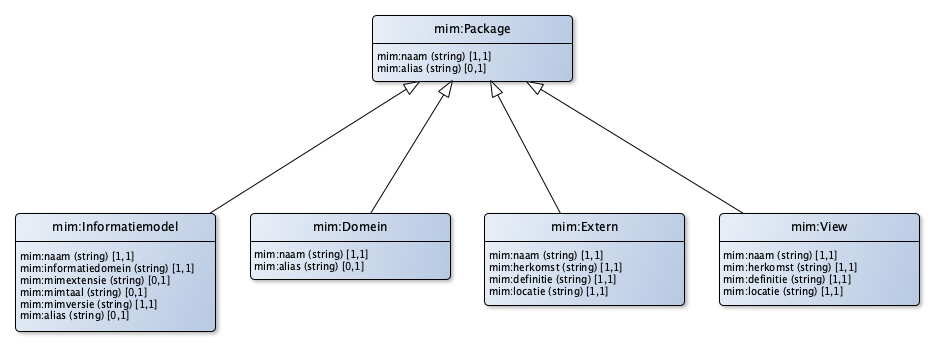
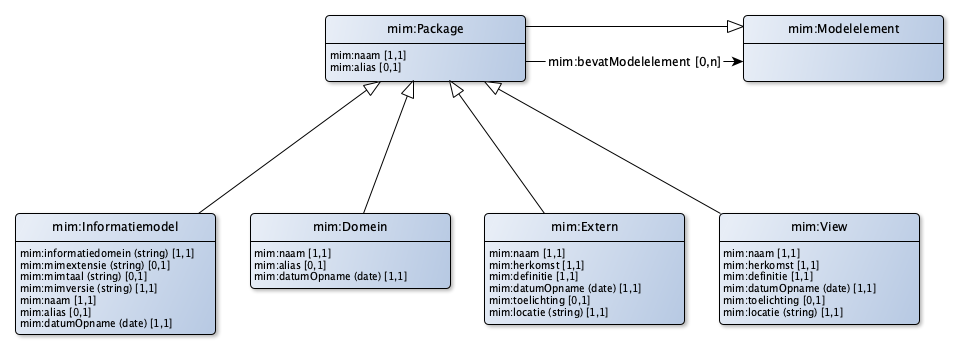
Toevoeging mogelijkheid om te specificeren wat er in een package mag zitten inclusief transformatie tbv issue #165

diff --git a/TransformatieRDF.md b/TransformatieRDF.md
@@ -85,6 +85,7 @@ Onderstaande tabellen geven een overzicht van alle transformaties en een referen
 
 |MIM-klasse|Vertaling|Referentie|
 |----------|---------|----------|
+|`mim:Modelelement`|n.v.t.|Abstracte klasse|
 |`mim:Objecttype`|`owl:Class`, `sh:NodeShape`|[Objecttype](#transformatie-objecttype)|
 |`mim:Attribuutsoort`|`owl:ObjectProperty`, `owl:DatatypeProperty`, `sh:PropertyShape`|[Attribuutsoort](#transformatie-attribuutsoort)|
 |`mim:Gegevensgroep`|`sh:PropertyShape`, `owl:ObjectProperty`|[Gegevensgroep](#transformatie-gegevensgroep)|
@@ -158,6 +159,7 @@ Onderstaande tabellen geven een overzicht van alle transformaties en een referen
 |`mim:constraint`|`mim:constraint`|[Constraint](#transformatie-constraint)|
 |`mim:element`|`sh:property`|[Data element](#transformatie-data-element)|
 |`mim:indicatieClassificerend`|`rdfs:subClassOf` (onder meer)|[indicatie classificerend](#transformatie-indicatie-classificerend)|
+|`mim:bevatModelelement`|`rdfs:isDefinedBy`, `owl:imports`|[bevat modelelement](#transformatie-bevat-modelelement)|
 
 ### Instanties (datatypen)
 
@@ -1606,6 +1608,60 @@ WHERE {
     }
   }
   BIND (t:classeuri(?notation) as ?class)
+}
+</pre>
+
+### transformatie: bevat modelelement
+
+Een `mim:bevatModelelement` wordt vertaald naar een `rdfs:isDefinedBy` voor zover modelelementen vertaald worden naar een owl:Class, owl:DatatypeProperty of owl:ObjectProperty. Merk op dat de vertaling in de omgekeerde richting is. Als bijvoorbeeld een Domein X modelelement Objecttype Y bevat, dan zal de relatie rdfs:isDefinedBy gaan lopen vanaf de klasse Y naar de Ontology X. In geval er sprake is van een owl:Ontology, dan wordt vertaald naar `owl:imports`.
+
+In MIM is het niet nodig om voor alle modelelementen rechtstreeks aan te geven welke package dit modelelement bezit: het is ook mogelijk dat dit via andere modelelementen loopt. Als een rechtstreekse relatie niet aanwezig is, dan wordt deze afgeleide relatie gebruikt.
+
+<pre class='ex-sparql'>
+CONSTRUCT {
+  ?class rdfs:isDefinedBy ?ontology
+}
+WHERE {
+  ?package mim:bevatModelement ?modelelement.
+  ?package mim:equivalent ?ontology.
+  ?modelelement mim:equivalant ?class.
+  ?class a owl:Class.
+}
+CONSTRUCT {
+  ?property rdfs:isDefinedBy ?ontology
+}
+WHERE {
+  ?package mim:bevatModelement ?eigenaar.
+  ?eigenaar ?eigenaarrelatie ?modelelement
+  ?package mim:equivalent ?ontology.
+  ?modelelement mim:equivalant ?eigenschap.
+  FILTER NOT EXISTS {?package mim:bevatModelelement ?modelelement}
+  FILTER (?eigenaarrelatie=mim:attribuut
+       || ?eigenaarrelatie=mim:dataElement
+       || ?eigenaarrelatie=mim:waarde
+       || ?eigenaarrelatie=mim:referentieElement
+       || ?eigenaarrelatie=mim:constraint)
+}
+CONSTRUCT {
+  ?property rdfs:isDefinedBy ?ontology
+}
+WHERE {
+  ?package mim:bevatModelement ?eigenaar.
+  ?modelelement ?eigenaarrelatie ?eigenaar
+  ?package mim:equivalent ?ontology.
+  ?modelelement mim:equivalant ?eigenschap.
+  FILTER NOT EXISTS {?package mim:bevatModelelement ?modelelement}
+  FILTER (?eigenaarrelatie=mim:bron
+       || ?eigenaarrelatie=mim:subtype)
+}
+CONSTRUCT {
+  ?ontology owl:imports ?importontology
+}
+WHERE {
+  ?package mim:bevatModelement ?subpackage.
+  ?package mim:equivalent ?ontology.
+  ?subpackage mim:equivalent ?importedontology.
+  ?importedontology a owl:Ontology.
 }
 </pre>
 

diff --git a/MetamodelLD.md b/MetamodelLD.md
@@ -164,6 +164,8 @@ Een keuze tussen relatiesoorten wordt gedaan op basis van een keuzeconstraint. E
 
 ![](media/rdf-packages.png)
 
+De relatie bevatModelelement geeft aan dat packages modelelementen kunnen bevatten. Welke modelelementen precies toegestaan zijn, wordt in het plaatje niet tot uitdrukking gebracht. Zie hiervoor [sectie 2.6](#packages).
+
 | **MIM metaclass**     | **Metaclass in RDF** | **Shape in RDF** | **Grondslag** |
 |-----------------------|----------------------|------------------|---------------|
 | Package               | [`mim:Package`](http://bp4mc2.org/def/mim#Package) | shape:Package | [grondslag](#packages) |
